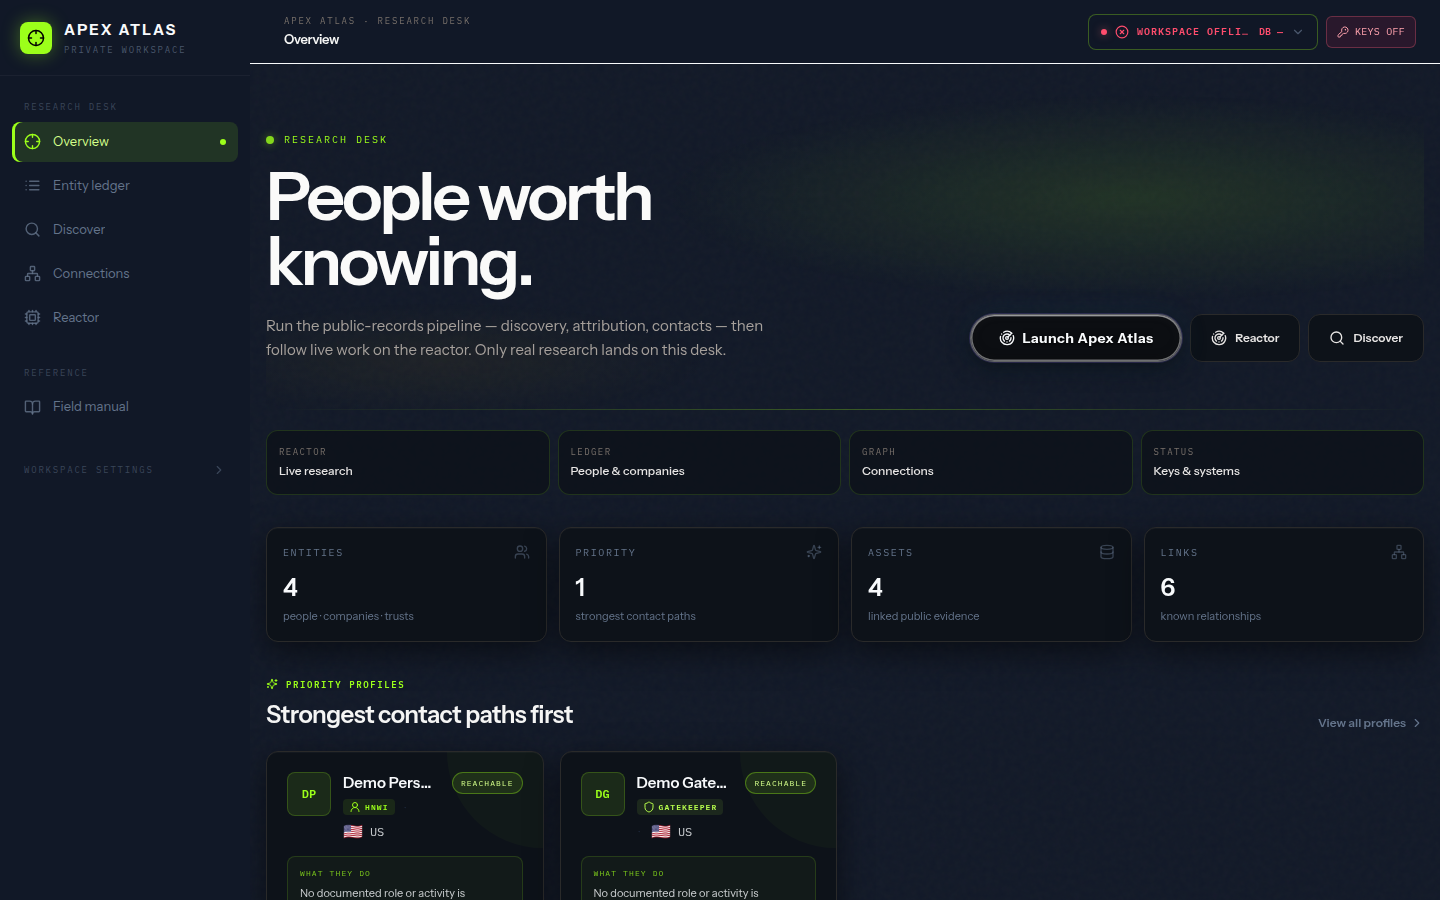
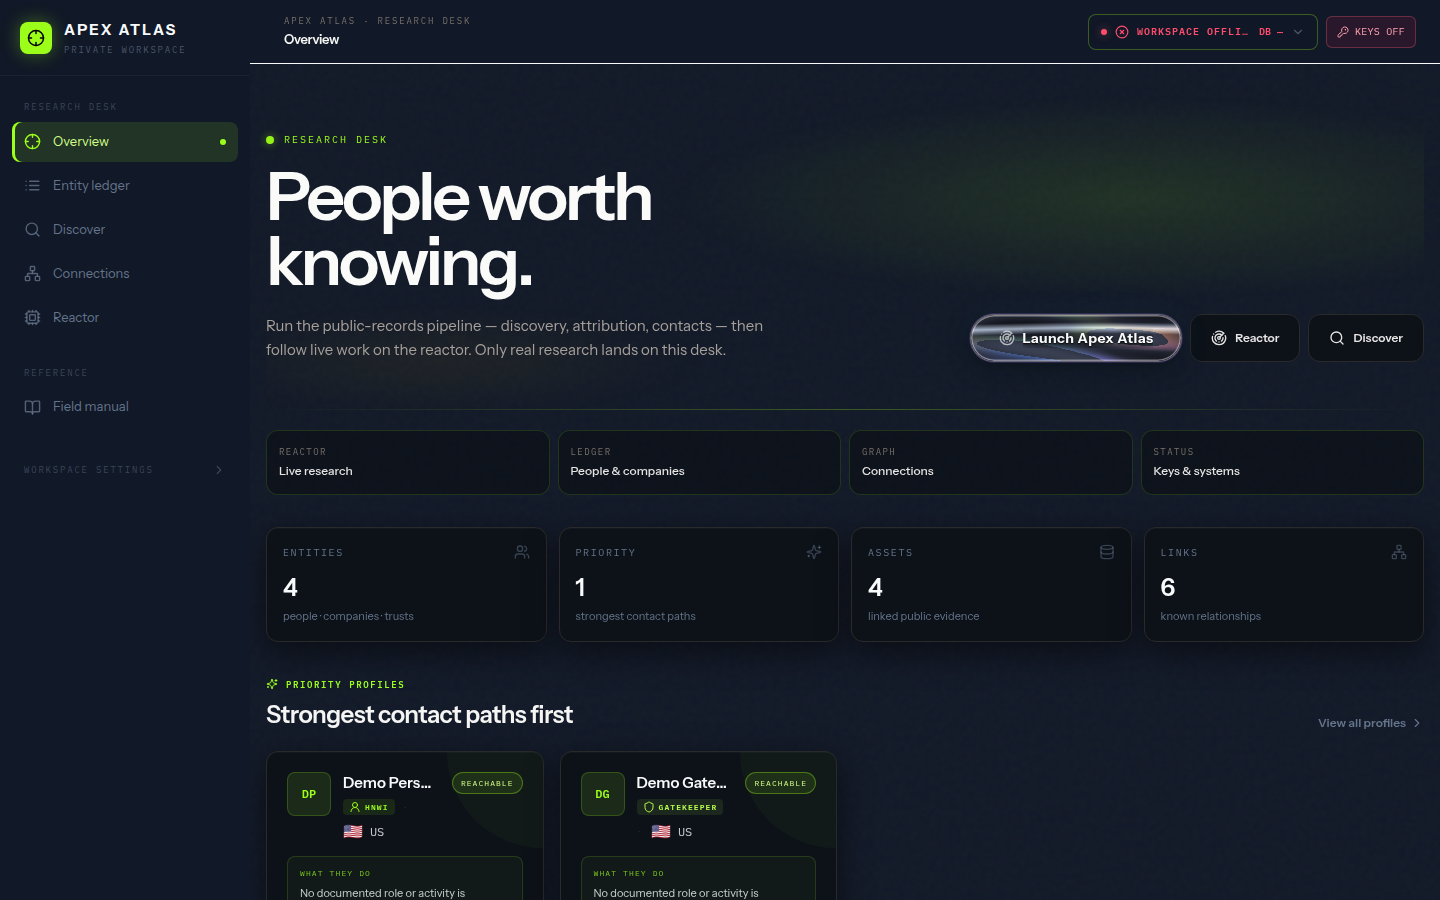
fix(ui): organic oil-on-chrome Launch

Changed region(s): [[0.6562, 0.3422, 0.8438, 0.4044]]

diff --git a/artifacts/apex-finder/src/components/liquid-metal-surface.tsx b/artifacts/apex-finder/src/components/liquid-metal-surface.tsx
@@ -1,95 +1,91 @@
 /**
- * Oil-slick / liquid-glass surface for Launch CTA.
- * WebGL iridescent fluid when available; animated canvas-2d fallback otherwise.
- * Tuned to be OBVIOUSLY colorful (gasoline spill), not dark chrome.
+ * Oil-on-chrome surface for Launch CTA.
+ * Organic blotchy film (not rainbow stripes) + specular, WebGL + canvas2d fallback.
  */
 import { useEffect, useRef } from "react";
 
-const VERT = `
-attribute vec2 a_pos;
-void main(){ gl_Position = vec4(a_pos, 0.0, 1.0); }
-`;
+const VERT = `attribute vec2 a_pos; void main(){ gl_Position = vec4(a_pos, 0.0, 1.0); }`;
 
-/** Bright oil-slick: flowing spectrum, strong warp, high contrast */
 const FRAG = `
 precision highp float;
 uniform vec2 u_res;
 uniform float u_time;
 
-float hash(vec2 p){
-  return fract(sin(dot(p, vec2(127.1, 311.7))) * 43758.5453123);
-}
+float hash(vec2 p){ return fract(sin(dot(p, vec2(127.1, 311.7))) * 43758.5453123); }
 float noise(vec2 p){
   vec2 i = floor(p); vec2 f = fract(p);
-  float a = hash(i);
-  float b = hash(i + vec2(1.0, 0.0));
-  float c = hash(i + vec2(0.0, 1.0));
-  float d = hash(i + vec2(1.0, 1.0));
-  vec2 u = f*f*(3.0-2.0*f);
-  return mix(a,b,u.x) + (c-a)*u.y*(1.0-u.x) + (d-b)*u.x*u.y;
+  float a = hash(i), b = hash(i+vec2(1.,0.)), c = hash(i+vec2(0.,1.)), d = hash(i+vec2(1.,1.));
+  vec2 u = f*f*(3.-2.*f);
+  return mix(a,b,u.x) + (c-a)*u.y*(1.-u.x) + (d-b)*u.x*u.y;
 }
 float fbm(vec2 p){
-  float v=0.0; float a=0.5;
-  for(int i=0;i<6;i++){ v+=a*noise(p); p=p*2.15+vec2(1.7,9.2); a*=0.5; }
+  float v=0., a=0.5;
+  for(int i=0;i<5;i++){ v+=a*noise(p); p=p*2.1+vec2(1.3,4.7); a*=0.5; }
   return v;
-}
-
-// HSV-ish spectrum for oil film
-vec3 oil(float t){
-  // cycle: magenta → purple → blue → cyan → lime → gold → magenta
-  vec3 c1 = vec3(0.95, 0.15, 0.55);
-  vec3 c2 = vec3(0.55, 0.2, 0.95);
-  vec3 c3 = vec3(0.15, 0.55, 1.0);
-  vec3 c4 = vec3(0.15, 0.95, 0.75);
-  vec3 c5 = vec3(0.65, 1.0, 0.2);
-  vec3 c6 = vec3(1.0, 0.75, 0.15);
-  float x = fract(t);
-  if(x < 0.166) return mix(c1, c2, x/0.166);
-  if(x < 0.333) return mix(c2, c3, (x-0.166)/0.167);
-  if(x < 0.5)   return mix(c3, c4, (x-0.333)/0.167);
-  if(x < 0.666) return mix(c4, c5, (x-0.5)/0.166);
-  if(x < 0.833) return mix(c5, c6, (x-0.666)/0.167);
-  return mix(c6, c1, (x-0.833)/0.167);
 }
 
 void main(){
   vec2 uv = gl_FragCoord.xy / u_res;
   vec2 p = (gl_FragCoord.xy - 0.5*u_res) / min(u_res.x, u_res.y);
-  float t = u_time * 0.45;
+  float t = u_time * 0.28;
 
-  // Strong liquid domain warp
-  vec2 q = p * 3.2;
-  q += vec2(
-    fbm(q + vec2(t, -t*0.7)),
-    fbm(q * 1.3 + vec2(-t*0.6, t*0.9))
-  ) * 0.85;
+  // Organic domain warp (slow liquid crawl)
+  vec2 q = p * 2.4;
+  q += 0.55 * vec2(
+    fbm(q + vec2(t*0.6, -t*0.4)),
+    fbm(q*1.15 + vec2(-t*0.5, t*0.7))
+  );
   float n  = fbm(q);
-  float n2 = fbm(q * 1.6 - t * 0.3);
-  float h  = n * 0.55 + n2 * 0.45;
+  float n2 = fbm(q*1.7 - t*0.2);
+  float h  = mix(n, n2, 0.4);
 
-  // Spectrum phase from height + flow
-  float phase = h * 1.8 + t * 0.35 + p.x * 0.4 + p.y * 0.25;
-  vec3 slick = oil(phase);
+  // Soft normals from height
+  float hx = fbm(q+vec2(0.025,0.)) - fbm(q-vec2(0.025,0.));
+  float hy = fbm(q+vec2(0.,0.025)) - fbm(q-vec2(0.,0.025));
+  vec3 N = normalize(vec3(-hx*6., -hy*6., 0.55));
+  vec3 L = normalize(vec3(0.35, 0.6, 0.85));
+  float diff = max(dot(N, L), 0.0);
+  float spec = pow(max(dot(N, normalize(L+vec3(0.,0.,1.))), 0.0), 40.0);
 
-  // Secondary thinner film interference
-  float film = sin(h * 18.0 + t * 2.0) * 0.5 + 0.5;
-  slick = mix(slick, oil(phase + 0.33), film * 0.45);
+  // Dark chrome base
+  vec3 dark = vec3(0.07, 0.08, 0.11);
+  vec3 mid  = vec3(0.22, 0.26, 0.32);
+  vec3 hi   = vec3(0.78, 0.82, 0.88);
+  vec3 col  = mix(dark, mid, diff * 0.85 + h * 0.25);
+  col = mix(col, hi, smoothstep(0.55, 0.95, h) * 0.35);
+  col += vec3(spec * 1.1);
 
-  // Specular white streaks (gasoline highlight)
-  float hx = fbm(q + vec2(0.03,0.0)) - fbm(q - vec2(0.03,0.0));
-  float hy = fbm(q + vec2(0.0,0.03)) - fbm(q - vec2(0.0,0.03));
-  vec3 N = normalize(vec3(-hx*5.0, -hy*5.0, 0.45));
-  float spec = pow(max(dot(N, normalize(vec3(0.3,0.5,0.9))), 0.0), 32.0);
-  slick += vec3(1.0) * spec * 0.85;
+  // Thin-film iridescence — soft, blotchy, not striped
+  // phase driven by height + slow time so colors pool organically
+  float phase = h * 3.2 + t * 0.15;
+  // muted oil film palette (not neon)
+  vec3 filmA = vec3(0.55, 0.25, 0.75); // purple
+  vec3 filmB = vec3(0.15, 0.55, 0.85); // blue-cyan
+  vec3 filmC = vec3(0.35, 0.75, 0.45); // green
+  vec3 filmD = vec3(0.75, 0.45, 0.2);  // amber
+  float f = fract(phase);
+  vec3 film;
+  if (f < 0.25) film = mix(filmA, filmB, f/0.25);
+  else if (f < 0.5) film = mix(filmB, filmC, (f-0.25)/0.25);
+  else if (f < 0.75) film = mix(filmC, filmD, (f-0.5)/0.25);
+  else film = mix(filmD, filmA, (f-0.75)/0.25);
 
-  // Keep it bright — darken only slightly toward edges
-  float edge = smoothstep(0.0, 0.12, uv.x) * smoothstep(1.0, 0.88, uv.x)
-             * smoothstep(0.0, 0.2, uv.y) * smoothstep(1.0, 0.8, uv.y);
-  slick *= 0.55 + 0.45 * edge;
+  // Only show film where the surface is mid-tone (oil pools), not everywhere
+  float filmMask = smoothstep(0.25, 0.55, h) * (1.0 - smoothstep(0.7, 0.95, h));
+  filmMask *= 0.55 + 0.45 * sin(h * 9.0 + t);
+  col = mix(col, col + film * 0.7, filmMask * 0.65);
 
-  // Lift floor so it never reads as flat black
-  slick = max(slick, vec3(0.08, 0.1, 0.14));
-  gl_FragColor = vec4(slick, 1.0);
+  // Fresnel edge glow (white/purple rim energy)
+  float fres = pow(1.0 - max(N.z, 0.0), 2.4);
+  col += vec3(0.7, 0.75, 0.95) * fres * 0.35;
+  col += film * fres * 0.2;
+
+  // Soft edge vignette
+  float edge = smoothstep(0.0, 0.1, uv.x) * smoothstep(1.0, 0.9, uv.x)
+             * smoothstep(0.0, 0.18, uv.y) * smoothstep(1.0, 0.82, uv.y);
+  col *= 0.7 + 0.3 * edge;
+
+  gl_FragColor = vec4(col, 1.0);
 }
 `;
 
@@ -104,40 +100,36 @@ function compile(gl: WebGLRenderingContext, type: number, src: string) {
   return s;
 }
 
-/** Canvas2D oil-slick fallback — always visible without WebGL */
 function paintFallback(ctx: CanvasRenderingContext2D, w: number, h: number, t: number) {
+  // organic blotches — dark chrome + soft purple/cyan pools
   const img = ctx.createImageData(w, h);
   const d = img.data;
   for (let y = 0; y < h; y++) {
     for (let x = 0; x < w; x++) {
-      const u = x / w;
-      const v = y / h;
-      // cheap flowing noise
-      const n =
-        Math.sin(u * 8 + t * 1.2 + Math.sin(v * 6 - t)) *
-          Math.cos(v * 7 - t * 0.9 + Math.sin(u * 5 + t * 0.7)) *
-          0.5 +
-        0.5;
-      const phase = n * 1.5 + t * 0.25 + u * 0.5;
-      const hue = (phase * 360) % 360;
-      // HSL → RGB (sat 0.85, light 0.45)
-      const s = 0.85;
-      const l = 0.42 + n * 0.18;
-      const c = (1 - Math.abs(2 * l - 1)) * s;
-      const hp = hue / 60;
-      const x2 = c * (1 - Math.abs((hp % 2) - 1));
-      let r = 0, g = 0, b = 0;
-      if (hp < 1) { r = c; g = x2; }
-      else if (hp < 2) { r = x2; g = c; }
-      else if (hp < 3) { g = c; b = x2; }
-      else if (hp < 4) { g = x2; b = c; }
-      else if (hp < 5) { r = x2; b = c; }
-      else { r = c; b = x2; }
-      const m = l - c / 2;
+      const u = x / w, v = y / h;
+      const n1 = Math.sin(u * 5.5 + t * 0.8 + Math.cos(v * 4 - t * 0.5));
+      const n2 = Math.cos(v * 6.2 - t * 0.6 + Math.sin(u * 3.5 + t * 0.4));
+      const n = (n1 * n2) * 0.5 + 0.5;
+      // base dark metal
+      let r = 18 + n * 40;
+      let g = 20 + n * 45;
+      let b = 28 + n * 55;
+      // soft film pools
+      if (n > 0.4 && n < 0.75) {
+        const k = (n - 0.4) / 0.35;
+        r += 90 * k * (0.6 + 0.4 * Math.sin(t + u * 4));
+        g += 40 * k;
+        b += 120 * k * (0.5 + 0.5 * Math.cos(t * 0.7 + v * 3));
+      }
+      // specular streak
+      const spec = Math.max(0, 1 - Math.abs(v - 0.35 - Math.sin(u * 2 + t) * 0.08) * 8);
+      r += spec * 140;
+      g += spec * 150;
+      b += spec * 160;
       const i = (y * w + x) * 4;
-      d[i] = Math.round((r + m) * 255);
-      d[i + 1] = Math.round((g + m) * 255);
-      d[i + 2] = Math.round((b + m) * 255);
+      d[i] = Math.min(255, r | 0);
+      d[i + 1] = Math.min(255, g | 0);
+      d[i + 2] = Math.min(255, b | 0);
       d[i + 3] = 255;
     }
   }
@@ -234,12 +226,10 @@ export function LiquidMetalSurface({ className }: { className?: string }) {
       };
     }
 
-    // 2D fallback — lower res for speed, still colorful
     const ctx = canvas.getContext("2d");
     if (!ctx) return;
     const resize2 = () => {
-      const dpr = Math.min(window.devicePixelRatio || 1, 1.5);
-      // paint at reduced internal res for perf
+      const dpr = Math.min(window.devicePixelRatio || 1, 1.25);
       const w = Math.max(2, Math.floor(canvas.clientWidth * Math.min(dpr, 1)));
       const h = Math.max(2, Math.floor(canvas.clientHeight * Math.min(dpr, 1)));
       canvas.width = w;
